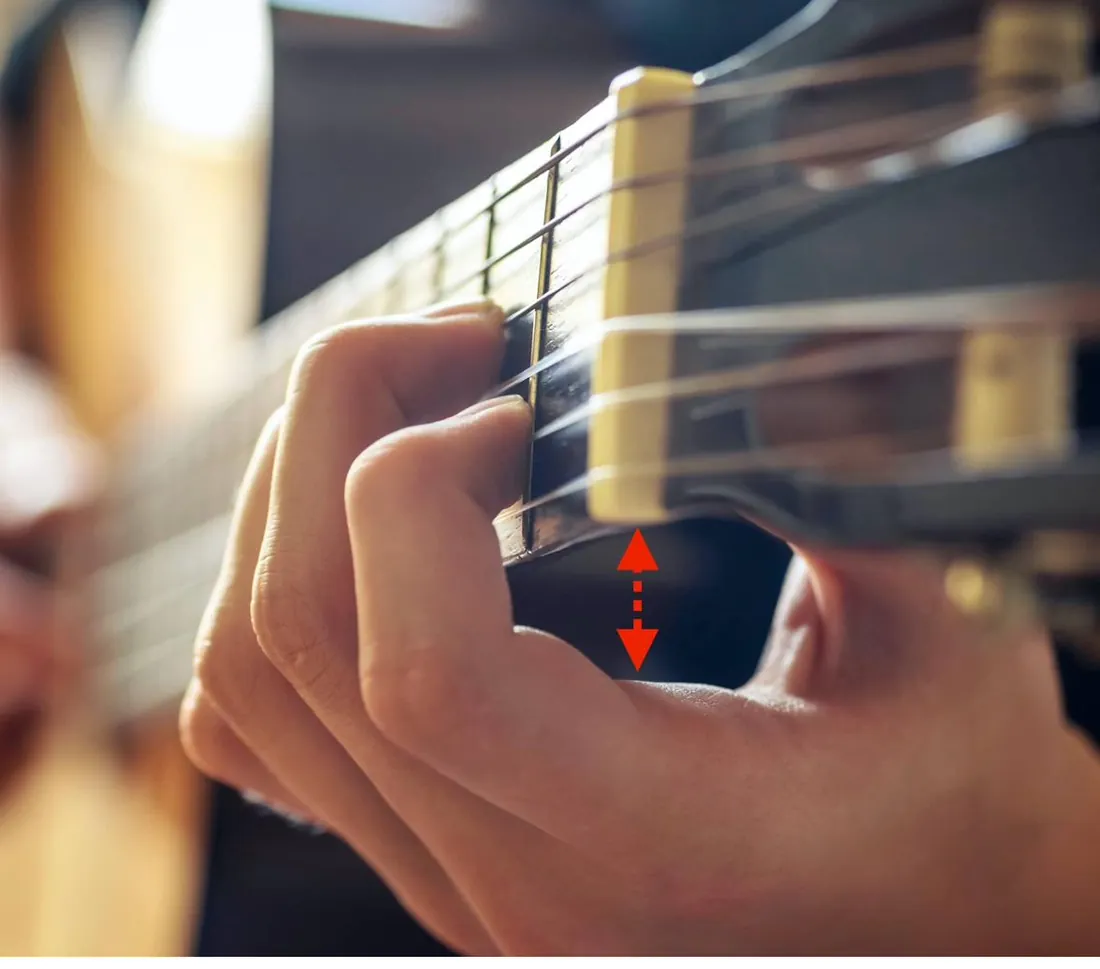
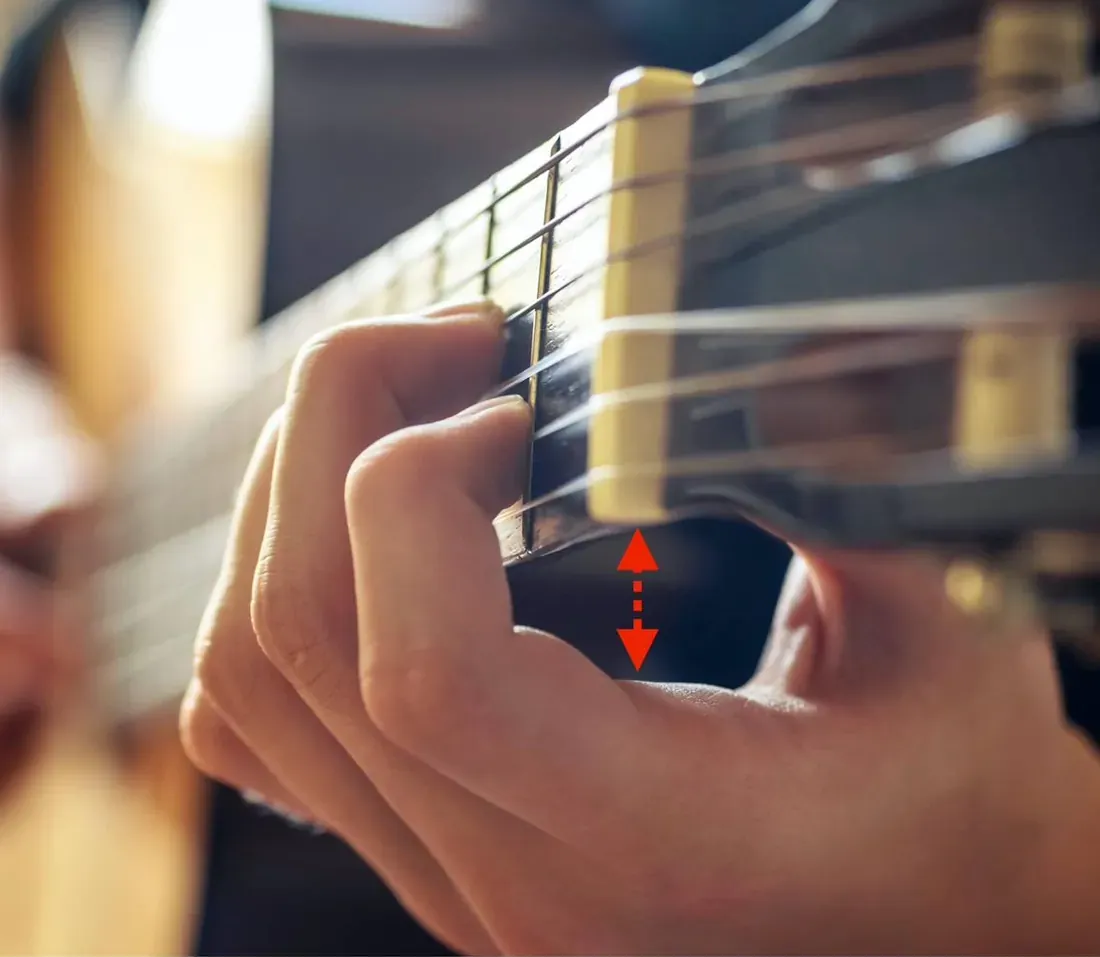
Section 6: drop the good/bad drawing; fingertip photo now illustrates tall, perpendicular fingers

diff --git a/index.html b/index.html
@@ -227,7 +227,6 @@ figure img{border-radius:var(--r);background:#fff;display:block}
 figcaption{font-size:14px;color:var(--muted)}
 .lh-photo{max-width:560px}
 .lh-photo img{width:100%;height:auto;border-radius:var(--r)}
-.lh-draw img{background:#fff}
 .photo-wrap{display:grid;grid-template-columns:minmax(0,1.3fr) minmax(0,1fr);gap:18px;align-items:start}
 .annot{display:flex;flex-direction:column;gap:12px}
 .annot div{display:flex;flex-direction:column;gap:2px}
@@ -1029,12 +1028,11 @@ const L=[
     <li>When we say "fret," we mean the <b>area between two metal wires</b>, not a wire. The 2nd fret is the area between the 1st and 2nd wires; it's named for the wire on its body side.</li>
     <li>Find the dots on your neck. They're called <b>fret markers</b>. Some guitars also have a dot on the 3rd fret.</li>
     <li>Higher fret numbers are toward the body and higher in pitch. Lower numbers are toward the headstock and lower in pitch.</li></ul></section>
-  <section class="block"><h3>Where exactly to put your finger</h3><p class="prose">Put your fingertip in the middle of the fret space, between the two wires. The dots sit in the middle of their spaces, so they make a handy guide: for string 4, fret 5, your finger goes right next to the dot.</p><div data-w="pl"></div>
-    <figure class="lh-photo"><img src="img/fret-space.webp" alt="Close-up of two fingertips pressing strings, each inside a fret space, with red arrows marking the space between two fret wires" loading="lazy"><figcaption>The red arrows show a fret space: the area between two wires. Each fingertip goes inside a space, never on top of a wire.</figcaption></figure></section>
+  <section class="block"><h3>Where exactly to put your finger</h3><p class="prose">Put your fingertip in the middle of the fret space, between the two wires. The dots sit in the middle of their spaces, so they make a handy guide: for string 4, fret 5, your finger goes right next to the dot.</p><div data-w="pl"></div></section>
   <section class="block"><h3>Left hand shape</h3><div class="photo-wrap"><figure><img src="${'{{IMG.hands}}'}" alt="Finger numbers: left hand fingers 1 to 4 plus thumb; right hand p i m a"><figcaption>Finger numbers. Left-hand fingers are 1–4 from index to pinky.</figcaption></figure>
     <ul class="points"><li>Thumb behind the neck, roughly behind your middle finger.</li><li>Fingers curved, coming down perpendicular to the fingerboard.</li><li>Leave a little space between your palm and the underside of the neck. Your hand shouldn't squeeze or rest against the neck.</li></ul></div>
+    <figure class="lh-photo"><img src="img/fret-space.webp" alt="Close-up of two fingertips pressing strings, fingers arched tall and coming straight down onto the fingerboard" loading="lazy"><figcaption>Keep your fingers as tall as you can, coming straight down onto the fingerboard. Standing them up like this keeps them from touching the strings next to them.</figcaption></figure>
     <figure class="lh-photo"><img src="img/palm-gap.webp" alt="Left hand fretting the guitar, with a red arrow showing the gap between the palm and the underside of the neck" loading="lazy"><figcaption>The red arrow shows the gap between your palm and the neck. Keep that space open.</figcaption></figure>
-    <figure class="lh-photo lh-draw"><img src="img/good-bad-hand.webp" alt="Drawings of a good fingering position, with curved fingers and the thumb behind the neck, and a bad one, with the palm pressed up against the neck" loading="lazy"><figcaption><b>Good:</b> thumb behind the neck, fingers curved and coming down onto the strings. <b>Bad:</b> palm pressed up against the neck, fingers flat.</figcaption></figure>
 </section>
   <section class="block"><h3>How hard to press</h3><p class="prose">Clear tone means enough. Buzzing means press more. Tired hand means too much.</p><div data-w="pr"></div></section>
   <section class="block"><h3>Mini quiz</h3><div data-w="qz"></div></section>`,
@@ -1202,7 +1200,7 @@ const hm=/^#s(\d+)$/.exec(location.hash);go(hm?(+hm[1]-1):store.get('cur',0),fal
 <script>
 // Offline support + updates. See sw.js.
 // The version shown in Settings. tools/bump.sh keeps this in step with VERSION in sw.js.
-window.APP_VERSION = 'v33';
+window.APP_VERSION = 'v34';
 (async () => {
   if (!('serviceWorker' in navigator)) return;
   const reg = await navigator.serviceWorker.register('sw.js');

diff --git a/sw.js b/sw.js
@@ -2,7 +2,7 @@
 //
 // IMPORTANT: whenever any file below changes, bump VERSION.
 // That is how phones and iPads learn there's an update to download.
-const VERSION = 'v33';
+const VERSION = 'v34';
 const CACHE = `firstfrets-${VERSION}`;
 const FONTS = 'guitar-fonts';
 
@@ -18,7 +18,6 @@ const ASSETS = [
   './img/neck.webp',
   './img/fret-space.webp',
   './img/palm-gap.webp',
-  './img/good-bad-hand.webp',
 ];
 
 self.addEventListener('install', (event) => {
